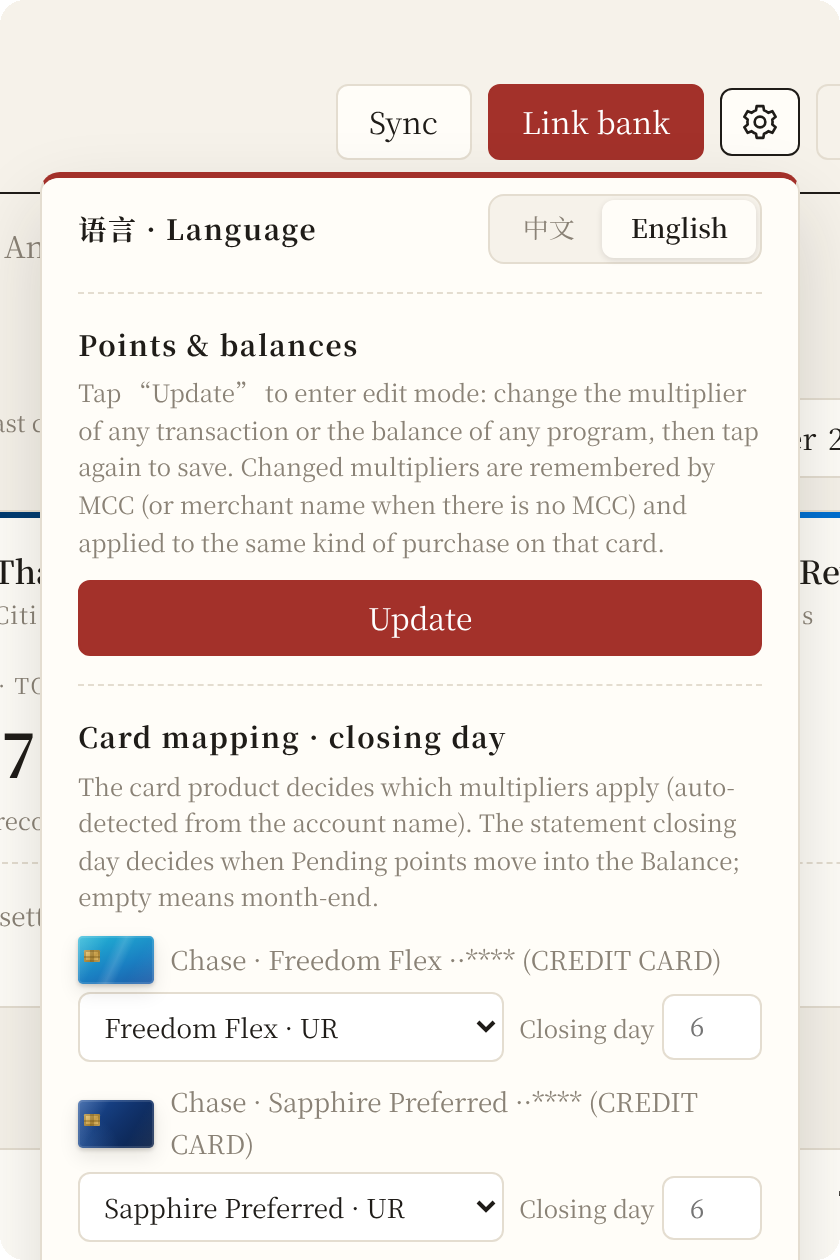
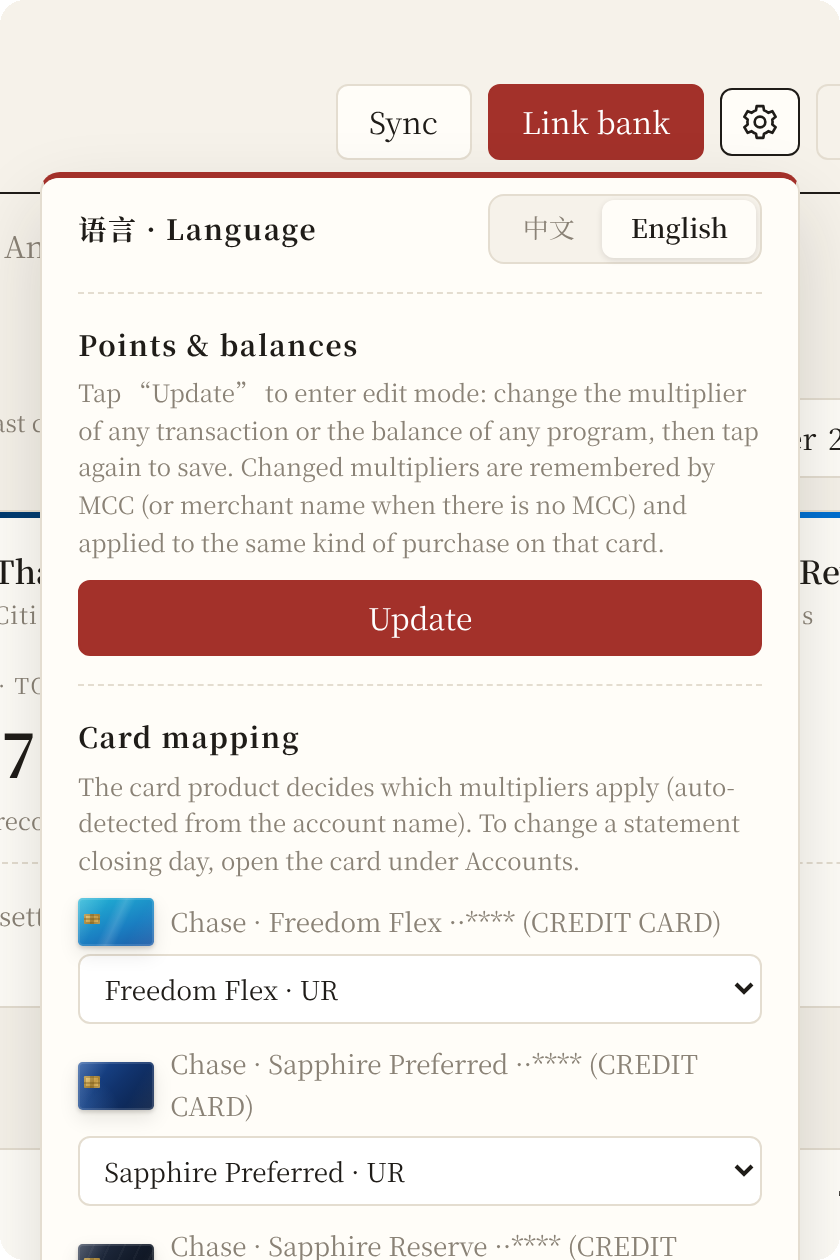
Remove closing-day inputs from settings

Changed region(s): [[0.0929, 0.65, 0.8976, 1.0], [0.4024, 0.5571, 0.5571, 0.619], [0.8667, 0.7738, 0.8976, 0.8048]]

diff --git a/front/index.html b/front/index.html
@@ -13,7 +13,7 @@
   <link rel="preconnect" href="https://fonts.googleapis.com">
   <link rel="preconnect" href="https://fonts.gstatic.com" crossorigin>
   <link href="https://fonts.googleapis.com/css2?family=Noto+Serif+SC:wght@400;500;600;700&display=swap" rel="stylesheet">
-  <link rel="stylesheet" href="style.css?v=20261109a">
+  <link rel="stylesheet" href="style.css?v=20261109b">
   <script src="https://cdn.plaid.com/link/v2/stable/link-initialize.js"></script>
 </head>
 <body>
@@ -53,8 +53,8 @@
             <button id="btn-edit" class="btn primary wide">更新</button>
           </section>
           <section>
-            <h4>卡片对应 · 账单日</h4>
-            <p class="hint">卡型决定用哪套倍数（已按账户名自动识别）。账单日（Statement closing date）决定什么时候把 Pending 积分加进 Balance，不填按月底算。</p>
+            <h4>卡片对应</h4>
+            <p class="hint">卡型决定用哪套倍数（已按账户名自动识别）。账单日在「账户」里点开对应的卡修改。</p>
             <div id="card-map"></div>
           </section>
           <section>
@@ -171,17 +171,17 @@
     </span>
   </div>
   <div id="toast" role="status"></div>
-  <script src="i18n.js?v=20261109a"></script>
-  <script src="config.js?v=20261109a"></script>
-  <script src="icons.js?v=20261109a"></script>
-  <script src="brands.js?v=20261109a"></script>
-  <script src="rewards.js?v=20261109a"></script>
-  <script src="cards.js?v=20261109a"></script>
-  <script src="drill.js?v=20261109a"></script>
-  <script src="analytics.js?v=20261109a"></script>
-  <script src="app.js?v=20261109a"></script>
-  <script src="detail.js?v=20261109a"></script>
-  <script src="acct.js?v=20261109a"></script>
-  <script src="calendar.js?v=20261109a"></script>
+  <script src="i18n.js?v=20261109b"></script>
+  <script src="config.js?v=20261109b"></script>
+  <script src="icons.js?v=20261109b"></script>
+  <script src="brands.js?v=20261109b"></script>
+  <script src="rewards.js?v=20261109b"></script>
+  <script src="cards.js?v=20261109b"></script>
+  <script src="drill.js?v=20261109b"></script>
+  <script src="analytics.js?v=20261109b"></script>
+  <script src="app.js?v=20261109b"></script>
+  <script src="detail.js?v=20261109b"></script>
+  <script src="acct.js?v=20261109b"></script>
+  <script src="calendar.js?v=20261109b"></script>
 </body>
 </html>

diff --git a/front/app.js b/front/app.js
@@ -729,8 +729,6 @@ function renderSettings() {
       <span class="map-title"><button type="button" class="row-face" data-face-acct="${esc(a.id)}" title="更换卡面">${RT_CARDS.face(a, "xs")}</button>${esc(a.institution)} · ${esc(cardNameMask(a))}${cardName(a) !== a.name ? `（${esc(a.name)}）` : ""}</span>
       <span class="map-controls">
         <select data-map="${esc(a.id)}"><option value="">不计积分</option>${options(productOf(a))}</select>
-        <span class="closing-input" title="Statement closing date：每月几号出账单">账单日
-          <input type="number" min="1" max="31" inputmode="numeric" data-closing="${esc(a.id)}" value="${esc(state.rewards.closing?.[a.id] ?? "")}" placeholder="${closingDay(a.id).source === "auto" ? closingDay(a.id).day : "末"}" title="${closingDay(a.id).source === "auto" ? `留空 = 自动（来自上期出账日 ${closingDay(a.id).from}）` : "留空 = 月底"}"> 号</span>
       </span>
     </label>`).join("") : `<p class="hint">还没有信用卡账户</p>`;
 

diff --git a/front/i18n.js b/front/i18n.js
@@ -29,6 +29,8 @@
     "卡片对应 · 账单日": "Card mapping · closing day",
     "卡型决定用哪套倍数（已按账户名自动识别）。账单日（Statement closing date）决定什么时候把 Pending 积分加进 Balance，不填按月底算。":
       "The card product decides which multipliers apply (auto-detected from the account name). The statement closing day decides when Pending points move into the Balance; empty means month-end.",
+    "卡片对应": "Card mapping",
+    "卡型决定用哪套倍数（已按账户名自动识别）。账单日在「账户」里点开对应的卡修改。": "The card product decides which multipliers apply (auto-detected from the account name). To change a statement closing day, open the card under Accounts.",
     "已记住的倍数": "Remembered multipliers",
     "还没有。编辑模式下改过的倍数会出现在这里。": "None yet. Multipliers you change in edit mode show up here.",
     "数据": "Data",

diff --git a/front/style.css b/front/style.css
@@ -391,14 +391,9 @@ body.editing main { padding-bottom: 120px; }
 .rotation-items li::marker { color: #117ACA; }
 .benefit.auto:not(.done) .bar > i { background: #117ACA; }
 
-/* ------------------------------------------------ closing date */
+/* ------------------------------------------------ card mapping */
 .map-controls { display: flex; gap: 8px; align-items: center; }
 .map-controls select { flex: 1; min-width: 0; }
-.closing-input { display: inline-flex; align-items: center; gap: 4px; white-space: nowrap; font-size: 12px; color: var(--muted); }
-.closing-input input {
-  width: 50px; border: 1px solid var(--line); border-radius: 6px; padding: 5px 6px;
-  background: #fff; color: var(--ink); text-align: center; font-size: 13px;
-}
 .benefit.auto.bonvoy { border-left-color: #B04A2F; }
 .benefit.auto.bonvoy:not(.done) .bar > i { background: #B04A2F; }
 .benefit.auto.bonvoy .rotation-items li::marker { color: #B04A2F; }

diff --git a/README.md b/README.md
@@ -223,7 +223,7 @@ Every route except `/api/login` requires `Authorization: Bearer <session token>`
 | `acct.js` | Account detail sheet |
 | `calendar.js` | Billing calendar |
 
-All script and style tags carry a `?v=YYYYMMDDx` query for cache busting (currently `20261109a`). Bump it on every frontend change.
+All script and style tags carry a `?v=YYYYMMDDx` query for cache busting (currently `20261109b`). Bump it on every frontend change.
 
 ---
 
